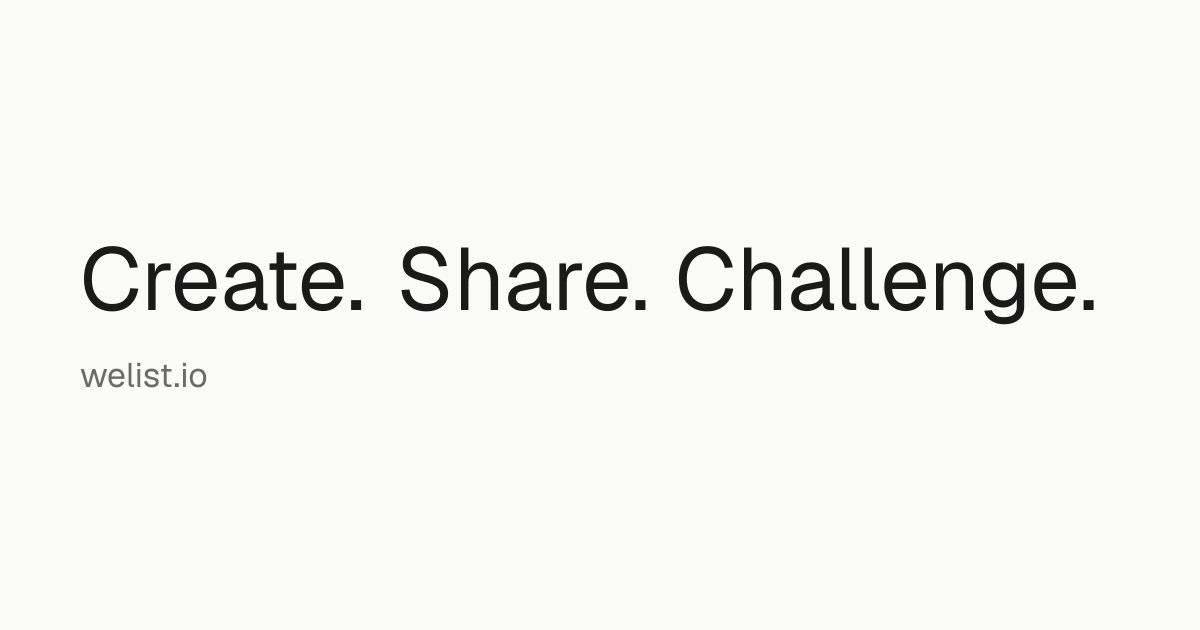
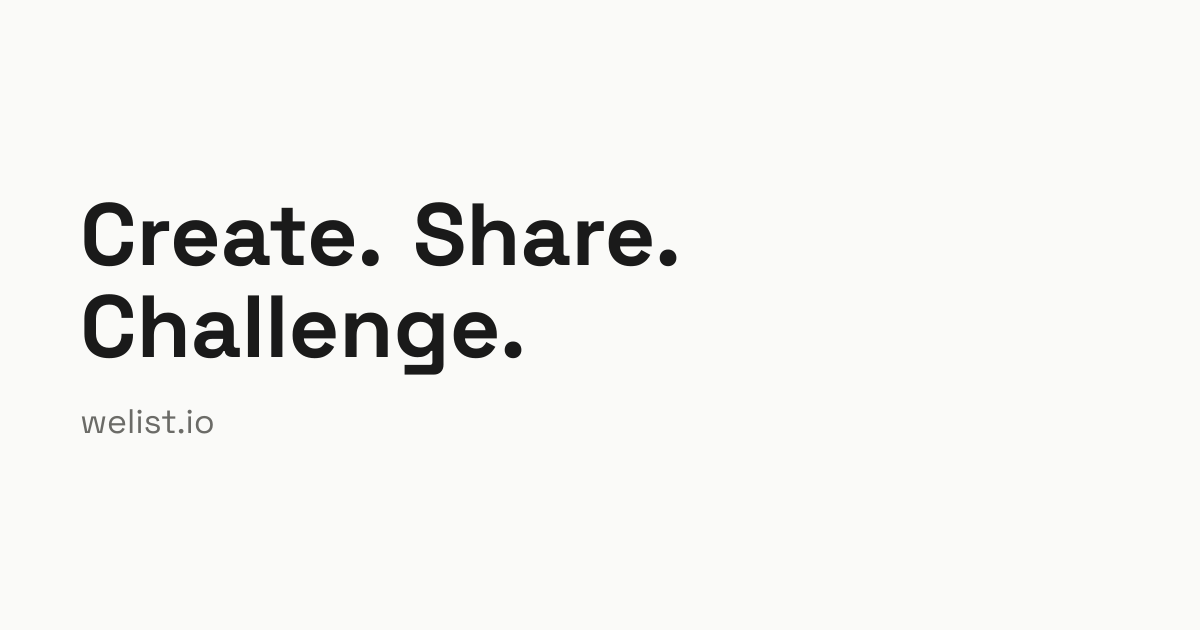
render OG images with Space Grotesk brand font

Changed region(s): [[0.0617, 0.3016, 0.8942, 0.6937]]

diff --git a/api/og.ts b/api/og.ts
@@ -1,5 +1,20 @@
+import { readFileSync } from "node:fs";
+import { dirname, join } from "node:path";
+import { fileURLToPath } from "node:url";
 import { ImageResponse } from "@vercel/og";
 import type { ReactElement } from "react";
+
+const fontDir = join(dirname(fileURLToPath(import.meta.url)), "fonts");
+const fonts = [
+  { name: "Space Grotesk", file: "SpaceGrotesk-Regular.ttf", weight: 400 },
+  { name: "Space Grotesk", file: "SpaceGrotesk-Medium.ttf", weight: 500 },
+  { name: "Space Grotesk", file: "SpaceGrotesk-Bold.ttf", weight: 700 },
+].map((f) => ({
+  name: f.name,
+  data: readFileSync(join(fontDir, f.file)),
+  weight: f.weight as 400 | 500 | 700,
+  style: "normal" as const,
+}));
 
 export type OgData = {
   name: string;
@@ -44,7 +59,7 @@ export function renderOgImage(data: OgData): ImageResponse {
       justifyContent: "space-between",
       backgroundColor: "#fafaf8",
       padding: "72px",
-      fontFamily: "sans-serif",
+      fontFamily: "Space Grotesk",
     },
     [
       el(
@@ -92,5 +107,6 @@ export function renderOgImage(data: OgData): ImageResponse {
   return new ImageResponse(tree as unknown as ReactElement, {
     width: WIDTH,
     height: HEIGHT,
+    fonts,
   });
 }